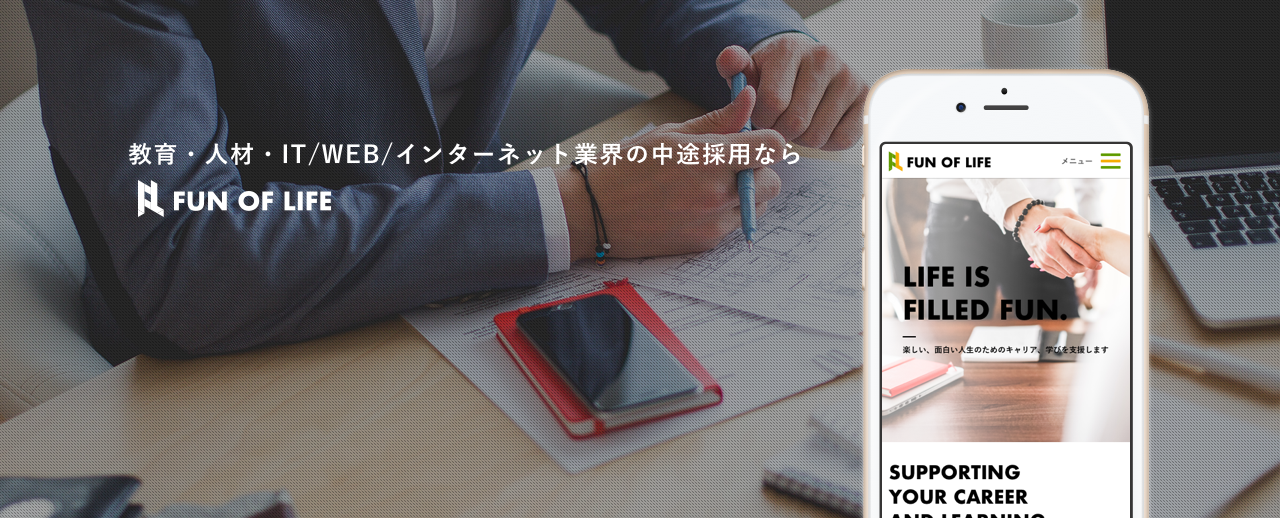
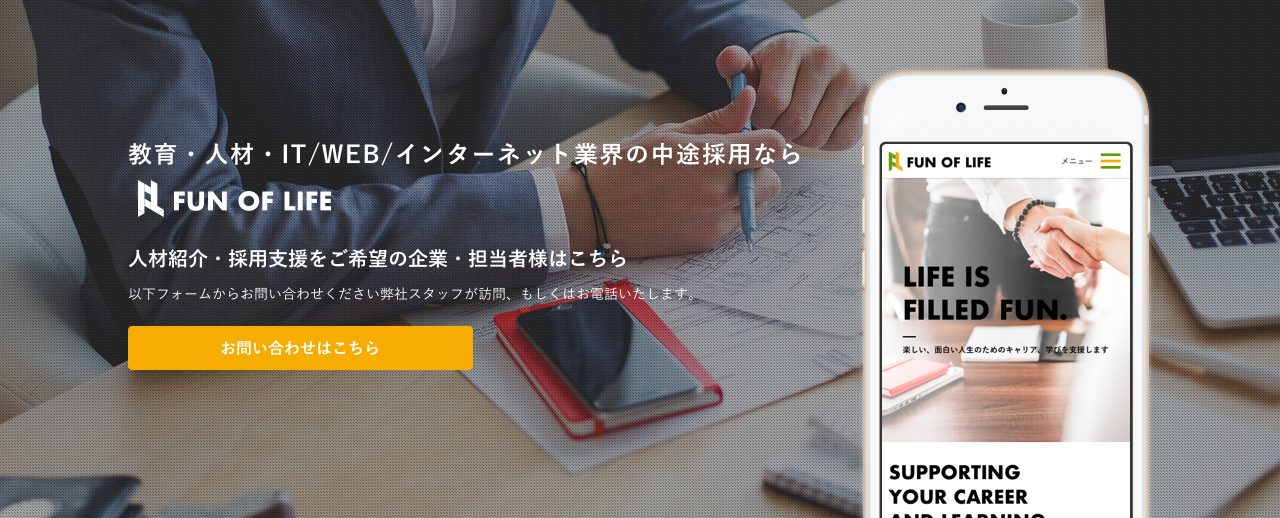
:recycle: リクルーターページレスポンシブ化

Changed region(s): [[0.0938, 0.6178, 0.375, 0.7413], [0.0938, 0.4633, 0.5, 0.5251], [0.0938, 0.556, 0.5312, 0.5869]]

diff --git a/002_funoflife/recruiter.html b/002_funoflife/recruiter.html
@@ -1,111 +1,47 @@
 <!DOCTYPE html>
 <html lang="ja">
-
 <head prefix="og: http://ogp.me/ns# fb: http://ogp.me/ns/fb# article: http://ogp.me/ns/article#">
   <meta charset="utf-8">
   <meta http-equiv="X-UA-Compatible" content="IE=edge">
   <meta name="viewport" content="width=device-width, initial-scale=1">
-  <title>Education Career 教育業界に特化した求人サービス</title>
-  <meta name="description"
-        content="EducationCareerは教育業界に関心のあるすべての方に向けた求人サービスです。正社員や業務委託、インターン、会社を辞めずに手伝えるプロボノやボランティアなど多様な働き方が選べます。"/>
-  <meta name="robots" content="noindex">
-
-  <meta property="og:title" content="Education Career 教育業界に特化した求人サービス"/>
-  <meta property="og:description"
-        content="EducationCareerは教育業界に関心のあるすべての方に向けた求人サービスです。正社員や業務委託、インターン、会社を辞めずに手伝えるプロボノやボランティアなど多様な働き方が選べます。"/>
-  <meta property="og:image" content="http://fun-of-life-nikke1925.c9users.io/images/og_image.jpg"/>
-  <meta property="og:url" content="http://fun-of-life-nikke1925.c9users.io"/>
-  <meta property="og:type" content="website"/>
-
   <link rel="icon" href="/favicon.ico">
   <link href="./css/style.css" rel="stylesheet">
-  <style type="text/css">
-  </style>
 </head>
 
 <body>
-<div class="globalContainer">
-  <div class="globalHeader">
-    <div class="globalHeader__sub">
-      <div class="clearfix">
-        <a href="http://fun-of-life-nikke1925.c9users.io"><img src="/images/logo.png"></img></a>
-        <ul>
-          <li class=""><a href="http://fun-of-life-nikke1925.c9users.io/job">求人を探す</a></li>
-          <li class=""><a href="http://fun-of-life-nikke1925.c9users.io/agent">転職エージェントに相談</a></li>
-          <li><a href="http://fun-of-life-nikke1925.c9users.io/recruiter">採用担当者様へ</a></li>
-          <li><a href="http://fun-of-life-nikke1925.c9users.io/magazine">コラム</a></li>
-          <li class="signin">
-            <ul class="clearfix login">
-              <li><a href="http://fun-of-life-nikke1925.c9users.io/login">ログイン</a></li>
-              <li><a href="http://fun-of-life-nikke1925.c9users.io/register">会員登録</a></li>
-            </ul>
-          </li>
-        </ul>
+  <!-- ここにheader.htmlを挿入してください -->
+  <div class="recruiter">
+    <div class="recruiter-main">
+      <a href="contact.html">
+        <img src="./images/recruiter-main.png" alt="お問い合わせはこちら" class="sp-none">
+        <img src="./images/recruiter-main-sp.png" alt="お問い合わせはこちら" class="pc-none">
+      </a>
+      <div class="recruiter-main-contact pc-none text-center">
+        <a href="contact.html">
+          <img src="./images/recruiter-contact-sp.png" class="pc-none">
+        </a>
       </div>
     </div>
-  </div>
-</div>
-<div class="globalContents recruiter">
-  <a href="/">
-    <img src="./images/recruiter-main.png" alt="お問い合わせはこちら">
-  </a>
-  <sectipn class="recruiter-feature">
-    <div class="recruiter-feature-inner">
-      <img src="./images/recruiter-feature.png" alt="">
-    </div>
-  </sectipn>
-  <div>
-    <div class="recruiter-flow">
-      <div class="recruiter-flow-inner">
-        <img src="./images/recruiter-flow.png" alt="登録から転職決定までの流れ">
+    <sectipn class="recruiter-feature">
+      <div class="recruiter-feature-inner text-center">
+        <img src="./images/recruiter-feature.png" class="sp-none">
+        <img src="./images/recruiter-feature-sp.png" class="pc-none">
       </div>
-    </div>
-    <a href="/">
-      <img src="./images/recruiter-contact.png" alt="お問い合わせはこちら">
-    </a>
-   </div>
-</div>
-<div class="globalFooter">
-  <div class="footer-links">
-    <div class="footer-links-inner">
-      <ul class="clearfix">
-        <li><a href="/job">求人を探す</a></li>
-        <li><a href="http://fun-of-life-nikke1925.c9users.io/agent">転職エージェントに相談</a></li>
-        <li><a href="http://fun-of-life-nikke1925.c9users.io/recruiter">採用担当者の方へ</a></li>
-        <li><a href="#">コラム</a></li>
-        <li><a href="http://www.funoflife.co.jp/" target="_blank">会社概要</a></li>
-        <li><a href="http://fun-of-life-nikke1925.c9users.io/contact">お問い合わせ</a></li>
-        <li><a href="http://fun-of-life-nikke1925.c9users.io/terms">利用規約</a></li>
-        <li><a href="http://fun-of-life-nikke1925.c9users.io/policy">プライバシーポリシー</a></li>
-      </ul>
-    </div>
-  </div>
-
-  <div class="footer-info">
-    <div class="float-left footer-info-logo">
-      <img src="/images/logo.png"></img>
-    </div>
-    <p class="footer-info-company">
-      株式会社ファンオブライフ<br>
-      〒150-0001　東京都渋谷区神宮前6-19-16 U-natura301
-    </p>
-    <div class="float-right">
-      <div class="footer-button-area">
-        <a href="/register" class="footer-button">会員登録</a>
-        <a href="/login" class="footer-button">ログイン</a>
+    </sectipn>
+    <div>
+      <div class="recruiter-flow sp-none">
+        <div class="recruiter-flow-inner">
+          <img src="./images/recruiter-flow.png" alt="登録から転職決定までの流れ" class="sp-none">
+        </div>
       </div>
-      <p class="footer-copyright">
-        <small class="copyright m-text m-text--sub m-text--small">Copyright &copy; | Privacy | All right reserved
-        </small>
-      </p>
-    </div>
+      <div class="recruiter-contact-bottom text-center">
+        <a href="contact.html">
+          <img src="./images/recruiter-contact.png" class="sp-none">
+          <img src="./images/recruiter-contact-footer-sp.png" alt="お問い合わせはこちら" class="pc-none">
+        </a>
+      </div>
+     </div>
   </div>
-</div>
-</div>
-
-<script src="/js/app.js"></script>
-<script src="/js/request_sender.js"></script>
-<script src="http://code.jquery.com/jquery-3.1.1.js"></script>
-<script src="/js/slick.min.js"></script>
+  <!-- ここにfooter.htmlを挿入してください -->
 </body>
 </html>

diff --git a/002_funoflife/css/style.css b/002_funoflife/css/style.css
@@ -3070,6 +3070,78 @@ _contact
   }
 }
 
+.recruiter .recruiter-main a {
+  display: block;
+}
+
+.recruiter .recruiter-main-contact {
+  padding: 35px 0;
+}
+
+.recruiter .recruiter-main-contact a {
+  display: block;
+}
+
+.recruiter .recruiter-main-contact img {
+  width: 345px;
+}
+
+.recruiter .recruiter-feature {
+  background-color: #FAFAFA;
+  display: block;
+}
+
+.recruiter .recruiter-feature-inner {
+  width: 1026px;
+  display: block;
+  margin: 0 auto;
+  padding: 30px;
+  -webkit-box-sizing: content-box;
+          box-sizing: content-box;
+}
+
+.recruiter .recruiter-feature-inner img {
+  width: 1026px;
+}
+
+.recruiter .recruiter-flow {
+  margin-bottom: 60px;
+  padding-top: 60px;
+}
+
+.recruiter .recruiter-flow-inner {
+  width: 1024px;
+  margin: 0 auto;
+}
+
+@media screen and (max-width: 640px) {
+  .recruiter .recruiter-feature-inner {
+    width: 100%;
+    display: block;
+    margin: 0 auto;
+    padding: 30px 5px;
+    -webkit-box-sizing: border-box;
+            box-sizing: border-box;
+  }
+  .recruiter .recruiter-feature-inner img {
+    width: 357px;
+  }
+  .recruiter .recruiter-contact-bottom {
+    background-color: #F6AC00;
+  }
+  .recruiter .recruiter-contact-bottom img {
+    width: 375px;
+  }
+}
+
+@media screen and (max-width: 360px) {
+  .recruiter .recruiter-main-contact img,
+  .recruiter .recruiter-feature-inner img,
+  .recruiter .recruiter-contact-bottom img {
+    width: 100%;
+  }
+}
+
 .breadcrumbs {
   background-color: #F0F0F0;
 }
@@ -3978,31 +4050,5 @@ _agent
 
 .agent-merit-image {
   width: 757px;
-  margin: 0 auto;
-}
-
-/*********************
-recruiter
-*********************/
-.recruiter-feature {
-  background-color: #FAFAFA;
-  display: block;
-}
-
-.recruiter-feature-inner {
-  width: 1024px;
-  display: block;
-  margin: 0 auto;
-}
-
-.recruiter-flow {
-  display: block;
-  margin-top: 30px;
-  margin-bottom: 30px;
-  padding-top: 30px;
-}
-
-.recruiter-flow-inner {
-  width: 1024px;
   margin: 0 auto;
 }

diff --git a/002_funoflife/css/indivisual/_recruiter.scss b/002_funoflife/css/indivisual/_recruiter.scss
@@ -1,0 +1,84 @@
+.recruiter {
+
+  .recruiter-main {
+    a {
+      display: block;
+    }
+  }
+
+  .recruiter-main-contact {
+    padding: 35px 0;
+
+    a {
+      display: block;
+    }
+
+    img {
+      width: 345px;
+    }
+  }
+
+  .recruiter-feature {
+    background-color: #FAFAFA;
+    display: block;
+  }
+
+  .recruiter-feature-inner {
+    width: 1026px;
+    display: block;
+    margin: 0 auto;
+    padding: 30px;
+    box-sizing: content-box;
+
+    img {
+      width: 1026px;
+    }
+  }
+
+  .recruiter-flow {
+    // display: block;
+    margin-bottom: 60px;
+    padding-top: 60px;
+  }
+
+  .recruiter-flow-inner {
+    width: 1024px;
+    margin: 0 auto;
+  }
+
+  @include sp() {
+    .recruiter-feature-inner {
+      width: 100%;
+      display: block;
+      margin: 0 auto;
+      padding: 30px 5px;
+      box-sizing: border-box;
+
+      img {
+        width: 357px;
+      }
+    }
+
+    .recruiter-contact-bottom {
+      background-color: $orange;
+
+      img {
+        width: 375px;
+      }
+    }
+  }
+
+  // 画像サイズ以下のデバイスでの処理
+  // ピクセルパーフェクトにならない
+  @include sp_min() {
+    .recruiter-main-contact,
+    .recruiter-feature-inner,
+    .recruiter-contact-bottom {
+      img {
+        width: 100%;
+      }
+    }
+  }
+
+
+}

diff --git a/002_funoflife/css/style.scss b/002_funoflife/css/style.scss
@@ -33,6 +33,7 @@
 @import "indivisual/favorite.scss";
 @import "indivisual/account.scss";
 @import "indivisual/edit.scss";
+@import "indivisual/recruiter.scss";
 
 .breadcrumbs {
   background-color: #F0F0F0;
@@ -950,31 +951,5 @@ _agent
 
 .agent-merit-image {
   width: 757px;
-  margin: 0 auto;
-}
-
-/*********************
-recruiter
-*********************/
-.recruiter-feature {
-  background-color: #FAFAFA;
-  display: block;
-}
-
-.recruiter-feature-inner {
-  width: 1024px;
-  display: block;
-  margin: 0 auto;
-}
-
-.recruiter-flow {
-  display: block;
-  margin-top: 30px;
-  margin-bottom: 30px;
-  padding-top: 30px;
-}
-
-.recruiter-flow-inner {
-  width: 1024px;
   margin: 0 auto;
 }

diff --git a/002_funoflife/css/_mixins.scss b/002_funoflife/css/_mixins.scss
@@ -38,6 +38,12 @@
   }
 }
 
+@mixin sp_min() {
+  @media screen and (max-width: 360px) {
+    @content;
+  }
+}
+
 @mixin pc() {
   @media screen and (min-width: $breakpoint) {
     @content;
